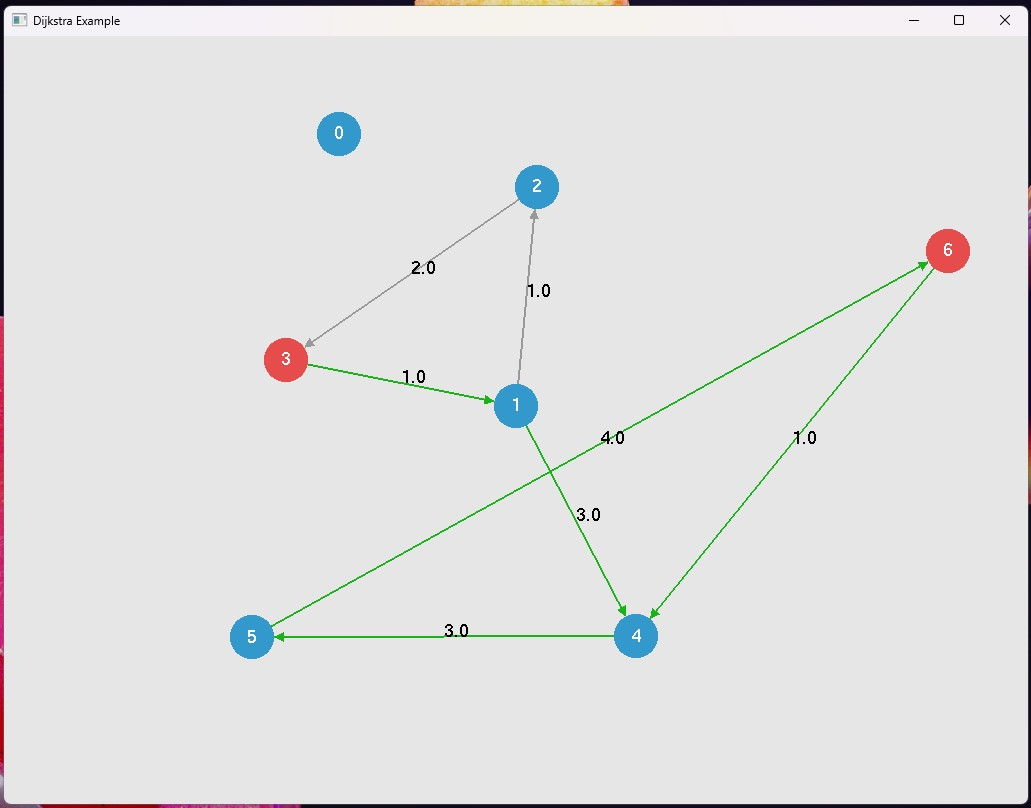
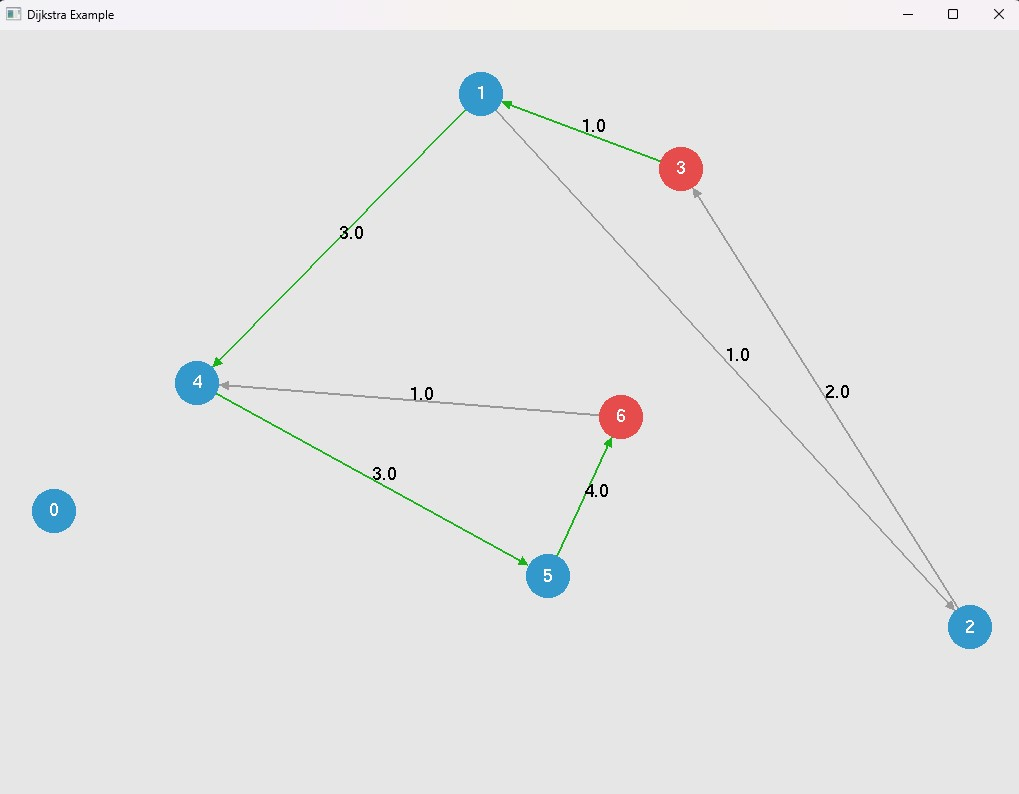
completed examples and implemented Makefile

diff --git a/DirectedGraph/examples/dijkstra_opengl/dijkstra.cpp b/DirectedGraph/examples/dijkstra_opengl/dijkstra.cpp
@@ -111,6 +111,12 @@ namespace lasd_glfw {
         glEnd();
     }
 
+    bool isEdgeInPath(const std::vector<int>& path, int from, int to) {
+        for (size_t i = 0; i < path.size() - 1; ++i)
+            if (path[i] == from && path[i + 1] == to) return true;
+        return false;
+    }
+
     int show() {
         if (!glfwInit()) {
             std::cerr << "Could not initialize GLFW.\n";
@@ -172,9 +178,7 @@ namespace lasd_glfw {
                 const Node& n1 = nodes[from];
                 const Node& n2 = nodes[to];
 
-                bool isInPath = std::find(path.begin(), path.end(), from) != path.end() &&
-                                std::find(path.begin(), path.end(), to) != path.end();
-
+                bool isInPath = isEdgeInPath(path, from, to);
                 drawArrow(n1.x, n1.y, n2.x, n2.y, isInPath ? edgeHighlightColor : edgeColor);
 
                 char weightText[16];

diff --git a/README.md b/README.md
@@ -19,18 +19,18 @@ New Data Structures I want to add:
 
 Todo:
 
-- Provide `clang++` compilation support for Linux
 - Provide documentation also for the `LinkedList` library
 - For now, the library does not Init() the Graph before applying the A* Search
 
 ## Requirements
 
+- make
 - gcc/g++ __v13.2.0__ or higher
 - clang/clang++ __v17.0.4__ or higher
 
 ## Graph API
 
-Have a look at __DirectedGraph/api.md__ file. <br />
+Have a look at __DirectedGraph/README.md__ file. <br />
 There you'll find a complete description of the library and also:
 
 - A __quick start code__
@@ -44,26 +44,11 @@ Your code has to be written inside the namespace at __test/test.cpp__. <br />
 You can use the test code as a way to learn how to use the library. <br />
 I don't forbid you from doing otherwise, but if you want to quickly test things you can do it this way. Have fun! <br />
 
-### Compile and Execute the project in Windows with g++ or clang++ (PowerShell)
+### Compile and Execute
 
 ```bat
-.\compile_clang++.bat
+make
 cd build/win
-.\lasd
-```
-
-```bat
-.\compile_g++.bat
-cd build/win
-.\lasd
-```
-
-### Compile and Execute the project in Linux with g++
-
-```bash
-chmod +x build.sh
-./build.sh
-cd build/linux
 .\lasd
 ```
 

diff --git a/DirectedGraph/README.md b/DirectedGraph/README.md
@@ -178,10 +178,11 @@ int main(void) {
 ## Examples
 
 The folder __examples__ shows you a list of different use cases of this library. <br />
-This is what you can do, combining the project with __OpenGL__:
+This is what you can do, combining the project with __OpenGL__, starting from node `3` to node `6`:
 
 ![IMAGE](dijkstra.jpg)
 
+The minimum path here is `3 -> 1 -> 4 -> 5 -> 6`. <br />
 Source folder: __examples/dijkstra_opengl/__
 
 ## LICENSE
